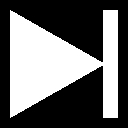
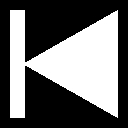
Added prev/next track buttons

Changed region(s): [[0.0938, 0.0625, 0.9062, 0.9375]]

diff --git a/src/klonk.cpp b/src/klonk.cpp
@@ -38,10 +38,11 @@ int modeQuery(int argc, char** argv)
 	return 0;
 }
 
-std::string getImageURL(const Response& response, const std::string& imagesPath)
+const std::string& getImageURL(const Response& response, const std::string& imagesPath)
 {
+	static std::string emptyString;
 	if (!response.has(imagesPath + ".0.url"))
-		return "";
+		return emptyString;
 
 	return response[imagesPath + ".0.url"].getString();
 }
@@ -63,9 +64,10 @@ struct TouchEvent
 
 struct UIInfo
 {
-	std::string coverURL = "";
+	bool coverIsOutdated = false;
 	int trackPos = 0;
 	int trackLen = 1;
+	bool isPlaying = false;
 	Pixel accentColor = { 0.5f };
 	Spotify spotify;
 	std::queue<TouchEvent> touchEvents;
@@ -90,9 +92,43 @@ void spotifyThreadFunc(UIInfo* pUIInfo)
 {
 	auto& uiInfo = *pUIInfo;
 
+	std::string trackID = "";
+
 	while (!uiInfo.shouldExit)
 	{
-		sleep(1);
+		Response response;
+		EXEC_SPOTIFY_LOCKED(response = uiInfo.spotify.exec("spotify.currently_playing()"));
+
+		if (response.has("item.id"))
+		{
+			auto& newTrackID = response["item.id"].getString();
+			if (trackID != newTrackID)
+			{
+				trackID = newTrackID;
+				auto& newImgURL = getImageURL(response, "item.album.images");
+				if (!newImgURL.empty())
+				{
+					bool imgDownloadSuccess;
+					EXEC_SPOTIFY_LOCKED(imgDownloadSuccess = uiInfo.spotify.exec("urllib.request.urlretrieve('" + newImgURL + "', 'data/cover.jpg')").toString().find("data/cover.jpg") != std::string::npos);
+					EXEC_UIINFO_LOCKED(uiInfo.coverIsOutdated = imgDownloadSuccess);
+				}
+			}
+		}
+
+		if (response.has("progress_ms") && response.has("item.duration_ms"))
+		{
+			EXEC_UIINFO_LOCKED(
+				uiInfo.trackPos = response["progress_ms"].getInteger();
+				uiInfo.trackLen = response["item.duration_ms"].getInteger();
+			);
+		}
+
+		if (response.has("is_playing"))
+		{
+			EXEC_UIINFO_LOCKED(uiInfo.isPlaying = response["is_playing"].getBoolean());
+		}
+
+		sleep(2);
 	}
 }
 
@@ -107,31 +143,27 @@ void touchThreadFunc(UIInfo* pUIInfo)
 
 	while (!uiInfo.shouldExit)
 	{
-		touch.fetchToSync();
+		if (!touch.fetchToSync())
+		{
+			usleep(500 * 1000);
+			continue;
+		}
 
 		TouchEvent event;
 
 		if (oldIsDown)
 		{
 			if (touch.down())
-			{
 				event.type = TouchEvent::Type::Move;
-			}
 			else
-			{
 				event.type = TouchEvent::Type::Up;
-			}
 		}
 		else
 		{
 			if (touch.down())
-			{
 				event.type = TouchEvent::Type::Down;
-			}
 			else
-			{
 				event.type = TouchEvent::Type::None;
-			}
 		}
 
 		if (event.type != TouchEvent::Type::None)
@@ -151,8 +183,6 @@ int modePlayback(int argc, char** argv)
 {
 	Framebuffer fb(WIDTH, HEIGHT);
 	fb.flush();
-
-	Response response;
 
 	UIInfo uiInfo;
 
@@ -175,21 +205,46 @@ int modePlayback(int argc, char** argv)
 			);
 		}
 	);
-	auto uiCover = uiTrackView->addElement<UIImage>(11, 11, 128, 128);
-	uiCover->setCbOnDown(
+	auto uiTrackViewCover = uiTrackView->addElement<UIImage>(11, 11, 128, 128);
+	uiTrackViewCover->setCbOnDown(
 		[](UIElement* pElem, int x, int y, void* pData)
 		{
 			MAKE_UIINFO();
 			if (!pElem->isHit(x, y))
 				return false;
 
-			EXEC_SPOTIFY_LOCKED(uiInfo.spotify.exec("spotify.pause_playback()"));
+			bool isPlaying;
+			EXEC_UIINFO_LOCKED(isPlaying = uiInfo.isPlaying);
+
+			EXEC_SPOTIFY_LOCKED(uiInfo.spotify.exec(isPlaying ? "spotify.pause_playback()" : "spotify.start_playback()"));
+			EXEC_UIINFO_LOCKED(uiInfo.isPlaying = !isPlaying);
 
 			return true;
 		}
 	);
+	uiTrackViewCover->setCbOnUpdate(
+		[](UIElement* pElem, void* pData)
+		{
+			MAKE_UIINFO();
 
-	auto uiSeekbar = uiRoot.addElement<UIElement>(20, 218, 280, 7);
+			bool isOutdated;
+			EXEC_UIINFO_LOCKED(isOutdated = uiInfo.coverIsOutdated);
+			if (!isOutdated)
+				return;
+
+			auto& img = ((UIImage*)pElem)->getImage();
+
+			img.downscaleFrom(Image("data/cover.jpg"));
+			auto avgColor = getAvgColor(img);
+
+			EXEC_UIINFO_LOCKED(
+				uiInfo.accentColor = avgColor;
+				uiInfo.coverIsOutdated = false;
+			);
+		}
+	);
+
+	auto uiSeekbar = uiRoot.addElement<UIElement>(20, 215, 280, 12);
 	uiSeekbar->setCbOnRender(
 		[](const UIElement* pElem, Framebuffer& fb, void* pData)
 		{
@@ -203,15 +258,64 @@ int modePlayback(int argc, char** argv)
 			fb.drawRect(x + wFilled, y, wEmpty, pElem->height(), { 0.2f });
 		}
 	);
+	uiSeekbar->setCbOnDown(
+		[](UIElement* pElem, int x, int y, void* pData)
+		{
+			MAKE_UIINFO();
+			if (!pElem->isHit(x, y))
+				return false;
+
+			EXEC_UIINFO_LOCKED(x = uiInfo.trackPos = (x - pElem->posX()) * uiInfo.trackLen / pElem->width(););
+
+			EXEC_SPOTIFY_LOCKED(uiInfo.spotify.exec("spotify.seek_track(" + std::to_string(x) + ")"));
+
+			return true;
+		}
+	);
+
+	auto uiBtnPrevTrack = uiRoot.addElement<UIImage>(11, 88, 64, 64);
+	uiBtnPrevTrack->getImage().downscaleFrom(Image("resource/btn-prev-track.jpg"));
+	uiBtnPrevTrack->setCbOnDown(
+		[](UIElement* pElem, int x, int y, void* pData)
+		{
+			MAKE_UIINFO();
+			if (!pElem->isHit(x, y))
+				return false;
+
+			bool seekToBeginning;
+			EXEC_UIINFO_LOCKED(
+				seekToBeginning = uiInfo.trackPos > 5000;
+				uiInfo.trackPos = 0;
+			);
+			EXEC_SPOTIFY_LOCKED(uiInfo.spotify.exec(seekToBeginning ? "spotify.seek_track(0)" : "spotify.previous_track()"));
+
+			return true;
+		}
+	);
+
+	auto uiBtnNextTrack = uiRoot.addElement<UIImage>(245, 88, 64, 64);
+	uiBtnNextTrack->getImage().downscaleFrom(Image("resource/btn-next-track.jpg"));
+	uiBtnNextTrack->setCbOnDown(
+		[](UIElement* pElem, int x, int y, void* pData)
+		{
+			MAKE_UIINFO();
+			if (!pElem->isHit(x, y))
+				return false;
+
+			EXEC_SPOTIFY_LOCKED(uiInfo.spotify.exec("spotify.next_track()"));
+
+			return true;
+		}
+	);
 
 	auto uiExitBtn = uiRoot.addElement<UIElement>(0, 0, 10, 10);
 	uiExitBtn->setCbOnDown(
 		[](UIElement* pElem, int x, int y, void* pData)
 		{
+			MAKE_UIINFO();
 			if (!pElem->isHit(x, y))
 				return false;
 
-			MAKE_UIINFO();
 			EXEC_UIINFO_LOCKED(uiInfo.shouldExit = true);
 
 			return true;
@@ -229,34 +333,6 @@ int modePlayback(int argc, char** argv)
 
 	while (!uiInfo.shouldExit)
 	{
-		EXEC_SPOTIFY_LOCKED(response = uiInfo.spotify.exec("spotify.currently_playing()"));
-
-		auto newImgURL = getImageURL(response, "item.album.images");
-
-		EXEC_UIINFO_LOCKED(
-			if (!newImgURL.empty() && uiInfo.coverURL != newImgURL)
-			{
-				uiInfo.coverURL = newImgURL;
-				if (uiInfo.spotify.exec("urllib.request.urlretrieve('" + uiInfo.coverURL + "', 'data/cover.jpg')").toString().find("data/cover.jpg") != std::string::npos)
-				{
-					uiCover->getImage().downscaleFrom(Image("data/cover.jpg"));
-					uiInfo.accentColor = getAvgColor(uiCover->getImage());
-				}
-				else
-					std::cout << "[ ERR ]: Could not download " << uiInfo.coverURL << std::endl;
-			}
-
-			if (response.has("progress_ms") && response.has("item.duration_ms"))
-			{
-				uiInfo.trackPos = response["progress_ms"].getInteger();
-				uiInfo.trackLen = response["item.duration_ms"].getInteger();
-			}
-			else
-			{
-				std::cout << "[ ERR ]: Invalid response:\n    " << response.toString() << std::endl;
-			}
-		);
-
 		bool touchEventAvail;
 		EXEC_UIINFO_LOCKED(touchEventAvail = !uiInfo.touchEvents.empty());
 		while (touchEventAvail)
@@ -285,14 +361,14 @@ int modePlayback(int argc, char** argv)
 
 		uiRoot.onUpdate(&uiInfo);
 
-		EXEC_UIINFO_LOCKED(fb.clear(uiInfo.accentColor * Pixel(0.2f)));
+		EXEC_UIINFO_LOCKED(fb.clear(uiInfo.accentColor * Pixel(0.7f)));
 		uiRoot.onRender(fb, &uiInfo);
 		fb.flush();
 
-		sleep(2);
+		usleep(500 * 1000);
 	}
 
-	std::cout << "Exiting...";
+	std::cout << "Exiting...\n";
 
 	spotifyThread.join();
 	touchThread.join();

diff --git a/src/touch.h b/src/touch.h
@@ -20,8 +20,9 @@ public:
 	TouchPos pos() const;
 	bool down() const;
 	bool up() const;
-	bool fetchSingle();
-	void fetchToSync();
+	bool eventAvail();
+	int fetchSingle();
+	bool fetchToSync();
 private:
 	int convVal(int val, int newMax) const;
 private:
@@ -57,11 +58,16 @@ bool Touch<W,H,MIN,MAX>::up() const
 	return !down();
 }
 
+// Return values:
+// < 0 -> No event read
+// = 0 -> Normal event read
+// > 0 -> Sync event read
 template <int W, int H, int MIN, int MAX>
-bool Touch<W,H,MIN,MAX>::fetchSingle()
+int Touch<W,H,MIN,MAX>::fetchSingle()
 {
 	input_event ie;
 	m_file.read((char*)&ie, sizeof(ie));
+
 	bool wasSync = false;
 	switch (ie.type)
 	{
@@ -85,14 +91,18 @@ bool Touch<W,H,MIN,MAX>::fetchSingle()
 			m_infoRolling.pressure = ie.value;
 			break;
 		}
+		break;
 	}
-	return wasSync;
+
+	return wasSync ? 1 : 0;
 }
 
 template <int W, int H, int MIN, int MAX>
-void Touch<W,H,MIN,MAX>::fetchToSync()
+bool Touch<W,H,MIN,MAX>::fetchToSync()
 {
-	while (!fetchSingle());
+	int result;
+	while (!(result = fetchSingle())); // Fetch a new event as long as a normal event is available
+	return result > 0;
 }
 
 
